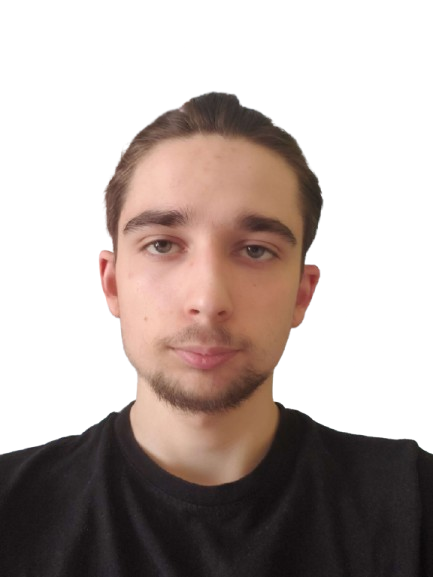
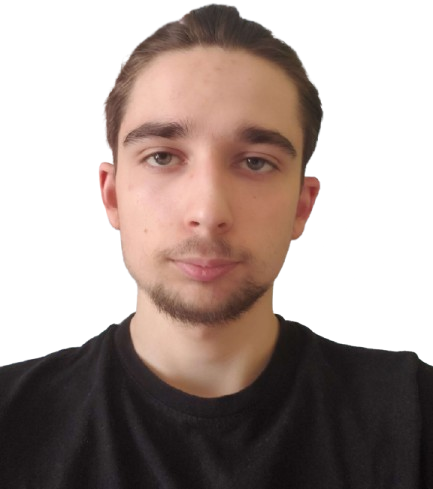
List & Stack filter + Classes

Changed region(s): [[0.0, 0.0, 1.0, 0.8589]]

diff --git a/components/Bio.vue b/components/Bio.vue
@@ -2,35 +2,44 @@
     <div>
     <div class="mx-auto px-4 sm:px-6 lg:px-8">
       <div class="bg-white shadow-xl rounded-lg overflow-hidden">
-        <div class="sm:flex sm:items-center sm:justify-between">
+        <div class="sm:flex">
           <div class="px-6 py-8 sm:p-10 z-0 w-2/3">
-            <h1 class="text-5xl font-bold text-gray-900">{{ name }}</h1>
-            <h2 class="text-3xl font-medium text-gray-700">{{ title }}</h2>
-            <div class="mt-4">
-                <h2 class="text-2xl font-medium text-gray-900">Bio</h2>
-                <p class="text-gray-700 text-lg">{{ bio }}</p>
+            <h1 class="title">{{ name }}</h1>
+            <h2 class="subtitle">{{ title }}</h2>
+            <div class="text-container mt-4 group">
+                <h2 class="text-title">Bio</h2>
+                <p class="text">{{ bio }}</p>
             </div>
             <div class="mt-6" v-if="skills">
-              <h3 class="text-2xl font-medium text-gray-900">Mes compétences</h3>
-              <div class="mt-3 flex flex-wrap gap-2">
-                <span v-for="skill in skills" :key="skill" class="bg-gray-800 text-white hover:bg-blue-600 duration-200 px-3 py-1 rounded-full text-md">{{ skill }}</span>
+              <h3 class="text-title">Mes compétences</h3>
+              <div class="skill-list">
+                <span v-for="skill in skills" :key="skill" 
+                class="main-skills">
+                  {{ skill }}
+                </span>
               </div>
             </div>
             <div class="mt-6" v-if="softSkills">
-              <h3 class="text-2xl font-medium text-gray-900">Mes Softs-Skills</h3>
-              <div class="mt-3 flex flex-wrap gap-2">
-                <span v-for="skill in softSkills" :key="skill" class="bg-gray-200 text-gray-700 hover:bg-gray-800 hover:text-white duration-200 px-3 py-1 rounded-full text-md">{{ skill }}</span>
+              <h3 class="text-title">Mes Softs-Skills</h3>
+              <div class="skill-list">
+                <span v-for="skill in softSkills" :key="skill" 
+                class="secondary-skills">
+                  {{ skill }}
+                </span>
               </div>
             </div>
             <div class="mt-6" v-if="interests">
-              <h3 class="text-2xl font-medium text-gray-900">Mes centres d'intérêts</h3>
-              <div class="mt-3 flex flex-wrap gap-2">
-                <span v-for="interest in interests" :key="interest" class="bg-gray-200 text-gray-700 hover:bg-gray-800 hover:text-white duration-200 px-3 py-1 rounded-full text-md">{{ interest }}</span>
+              <h3 class="text-title">Mes centres d'intérêts</h3>
+              <div class="skill-list">
+                <span v-for="interest in interests" :key="interest" 
+                class="secondary-skills">
+                {{ interest }}
+                </span>
               </div>
             </div>
           </div>
-          <div class="flex h-full w-1/3 justify-center bg-gray-800 rounded-lg bg-[url('/assets/images/la_vague.jpg')] bg-cover bg-center">
-                <img src="/assets/images/moi-no-bg.png" alt="avatar" class="w-full"/>
+          <div class="flex w-1/3 justify-end rounded-e-lg">
+                <img src="/assets/images/moi-no-bg.png" alt="avatar" class="h-full bg-[url('/assets/images/la_vague.jpg')] bg-cover bg-center "/>
           </div>
         </div>
       </div>

diff --git a/components/Skills.vue b/components/Skills.vue
@@ -1,8 +1,12 @@
 <template>
     <div ref="skillsIntro">
         <Head title="Mes projets & expériences"/>
-        <div class="w-full text-center">
-            <input type="text" v-model="search" placeholder="Rechercher un projet" class="w-1/2 p-2 mx-auto rounded-lg border-2 border-gray-300 focus:border-blue-500 focus:outline-none"/>
+        <div class="flex flex-row w-full justify-center gap-5">
+            <input type="text" v-model="search" placeholder="Rechercher un projet" class="w-1/3 p-2 rounded-lg border-2 border-gray-300 focus:border-blue-500 focus:outline-none"/>
+                <select name="stacks" id="stacks-select" v-model="stack" class="p-2 rounded-lg border-2 border-gray-300 focus:border-blue-500 focus:outline-none">
+                    <option value="" class="text-gray-400">Toute stack</option>
+                    <option v-for="stack in stacks" :value="stack">{{ stack }}</option>
+                </select>
         </div>
         <Project v-for="project in filteredProjects" @focus="focusedProject = project" :title="project.title" :bio="project.bio" :stacks="project.stacks" :link="project.link" :image="project.image"/>
         <div class="w-full justify-center text-center" v-if="filteredProjects.length == 0">
@@ -30,42 +34,29 @@ const search = ref('')
 const skillsIntro = ref(null)
 const focusedProject = ref(null)
 const filteredProjects = ref(projects)
-const hiddenProjects = ref([])
+const stacks = ref([...new Set(projects.map(project => project.stacks).flat())])
+const stack = ref('')
 
-const observer = new IntersectionObserver((entries) => {
-    entries.forEach(entry => {
-        if (entry.isIntersecting) {
-            entry.target.classList.add('animate-fade-in')
-        }
-        else {
-            entry.target.classList.remove('animate-fade-in')
-        }
-    })
-})
 
-watch(() => hiddenProjects.value, (newValue, oldValue) => {
-    if (newValue) {
-        observer.observe(newValue)
-    }
-})
+const filterProjects = (search, stack) => {
+    filteredProjects.value = projects.filter(project => {
+        const matchesSearch = search ? project.title.toLowerCase().includes(search.toLowerCase()) : true;
+        
+        const matchesStack = stack ? project.stacks.includes(stack) : true;
+        
+        return matchesSearch && matchesStack;
+    });
+}
 
 watch(() => search.value, (newValue, oldValue) => {
-    if (newValue !== '') {
-        filteredProjects.value = projects.filter(project => 
-            project.title.toLowerCase().includes(newValue.toLowerCase()) ||
-            project.bio.toLowerCase().includes(newValue.toLowerCase()) ||
-            project.stacks.some(stack => stack.toLowerCase().includes(newValue.toLowerCase()))
-        )
-    } else {
-        filteredProjects.value = projects
-    }
+    filterProjects(newValue, stack.value)
+})
+
+watch(() => stack.value, (newValue, oldValue) => {
+    filterProjects(search.value, newValue)
 })
 
 onMounted(() => {
     props.direction === 'right' ? skillsIntro.value.classList.add('animate-slide-right') : skillsIntro.value.classList.add('animate-slide-left')
-    hiddenProjects.value = document.querySelectorAll('.hiddenProject')
-    if (hiddenProjects.value && hiddenProjects.value.length > 0) {
-        hiddenProjects.value.forEach(project => observer.observe(project))
-    }
 })
 </script>

diff --git a/components/Project.vue b/components/Project.vue
@@ -1,25 +1,27 @@
 <template>
-  <div class="my-8 opacity-0 transition-all duration-100 hiddenProject">
+  <div class="my-8 transition-all duration-100 animate-fade-in">
     <div class="mx-auto px-4 sm:px-6 lg:px-8">
       <div class="bg-white shadow-xl rounded-lg overflow-hidden">
         <div class="sm:flex sm:items-center sm:justify-between h-fit">
-          <div class="flex flex-col px-6 py-8 sm:p-10 h-full">
+          <div class="flex flex-col px-6 py-8 sm:p-10 h-full group">
             <div class="flex w-fit">
               <a :href="link ? link : '#'" target="_blank" class="underscore">
-                <h1 class="text-4xl font-bold text-gray-900 cursor-pointer">{{ title }}</h1>
+                <h1 class="title cursor-pointer">{{ title }}</h1>
               </a>
             </div>
             <div class="mt-6" v-if="stacks">
-              <h3 class="text-xl font-medium text-gray-900">Stacks</h3>
-              <div class="mt-3 flex flex-wrap gap-2">
-                <span v-for="stack in stacks" :key="stack" class="bg-gray-800 text-white px-3 py-1 rounded-full text-sm hover:bg-blue-600 duration-200">{{ stack }}</span>
+              <h3 class="text-title">Stacks</h3>
+              <div class="skill-list">
+                <span v-for="stack in stacks" :key="stack" class="main-skills">{{ stack }}</span>
               </div>
             </div>
             <div class="mt-4 group">
-              <h2 class="text-xl font-medium text-gray-900">Résumé</h2>
-              <p class="text-gray-600 group-hover:text-lg group-hover:text-gray-900 duration-300">{{ bio }}</p>
+              <h2 class="text-title">Résumé</h2>
+              <p class="text">{{ bio }}</p>
             </div>
-            <a class="mt-6 text-xl font-medium text-gray-900 cursor-pointer duration-200 hover:rounded-full hover:p-3 hover:bg-gray-200 w-fit" @click="emitFocus()">En savoir plus</a>
+            <a class="mt-6 text-xl font-medium text-gray-900 cursor-pointer duration-200 rounded-full p-3 bg-gray-200 group-hover:bg-gray-800 group-hover:text-white w-fit" @click="emitFocus()">
+            En savoir plus
+            </a>
           </div>
           <div class="flex h-full justify-center bg-gray-800 rounded-lg duration-150 image-div relative group" v-if="image">
             <a :href="link ? link : '#'" target="_blank" class="image-link duration-150">

diff --git a/components/projectFocus.vue b/components/projectFocus.vue
@@ -2,7 +2,7 @@
   <div class="fixed inset-0 z-50 flex items-center justify-center">
     <div class="absolute inset-0 bg-black bg-opacity-40 backdrop-blur-md" @click="$emit('close')"></div>
 
-    <div class="relative bg-white shadow-xl rounded-lg overflow-hidden w-11/12 sm:w-3/4 lg:w-1/2 p-8 flex flex-col items-center space-y-6 z-50">
+    <div class="relative bg-white shadow-xl rounded-lg overflow-hidden w-11/12 sm:w-3/4 lg:w-1/2 p-8 flex flex-col items-center space-y-6 z-50 max-h-[90vh] overflow-y-auto"> 
 
       <button @click="$emit('close')" class="absolute top-4 right-4 text-gray-800 hover:text-gray-900 text-lg hover:text-2xl duration-300">
         ✕
@@ -12,8 +12,9 @@
         {{ title }}
       </a>
 
-      <a :href="link ? link : '#'" target="_blank" class="relative group w-full">
-        <img :src="`/_nuxt/assets/images/` + image" alt="avatar" class="rounded-lg w-full h-auto cursor-pointer group-hover:opacity-75 transition-opacity duration-150" />
+      <a :href="link ? link : '#'" target="_blank" class="flex flex-col group image-link duration-150">
+        <Icon size="32" name="quill:link-out" class="absolute invisible right-1/2 top-[40%] translate-x-1/2 text-white group-hover:visible z-10 duration-100"/>
+        <img :src="`/_nuxt/assets/images/` + image" alt="avatar" class="cursor-pointer group-hover:blur-sm duration-200"/>
       </a>
 
       <div v-if="stacks" class="w-full text-center">
@@ -28,7 +29,11 @@
         <p class="text-gray-600">{{ more ? more : bio }}</p>
       </div>
 
-      <a :href="'/assets/other/'+doc+'.pdf'" download="CV Lajoinie Elie.pdf" class="self-center text-center w-1/2 py-3 bg-gray-200 text-gray-700 rounded-full text-sm">Télécharger {{ docTitle }}</a>
+      <a :href="'/assets/other/'+doc+'.pdf'" download="CV Lajoinie Elie.pdf" 
+      class="self-center text-center w-1/2 py-3 bg-gray-200 text-gray-700 rounded-full text-sm"
+      v-if="doc">
+      Télécharger {{ docTitle }}
+      </a>
 
     </div>
   </div>

diff --git a/components/Head.vue b/components/Head.vue
@@ -1,19 +1,44 @@
 <template>
-  <div class="pt-8 pb-16 text-center">
+  <div class="py-12 text-center">
     <div class="w-full justify-center">
-      <h1 class="text-6xl font-bold text-gray-800 drop-shadow-[0_4px_5px_rgba(0,0,0,0.4)]">
+      <h1
+        ref="titleRef"
+        @mousemove="handleMouseMove"
+        @mouseleave="resetShadow"
+        class="text-6xl font-bold text-gray-800 drop-shadow-[0_4px_5px_rgba(0,0,0,0.4)] transition-shadow duration-200"
+        :style="{ textShadow }"
+      >
         {{ title }}
       </h1>
     </div>
   </div>
 </template>
 
-
 <script setup>
+import { ref } from 'vue';
+
 const props = defineProps({
   title: {
     type: String,
     required: true
   }
-})
+});
+
+const titleRef = ref(null);
+const textShadow = ref('');
+
+const handleMouseMove = (event) => {
+  const { offsetX, offsetY, target } = event;
+  const width = target.offsetWidth;
+  const height = target.offsetHeight;
+
+  const xShadow = (offsetX - width / 2) / 10;
+  const yShadow = (offsetY - height / 2) / 10;
+
+  textShadow.value = `${xShadow}px ${yShadow}px 10px rgba(0, 0, 0, 0.4)`;
+};
+
+const resetShadow = () => {
+  textShadow.value = '';
+};
 </script>

diff --git a/components/Header.vue b/components/Header.vue
@@ -5,13 +5,15 @@
         <a 
           href="#"
           @click.prevent="scrollToSection(1)"
-          :class="{ 'text-gray-400': activeTab !== 1, 'text-white textShadow duration-200': activeTab === 1 }"
+          class="title-nav"
+          :class="{ 'text-gray-400': activeTab !== 1, 'text-white textShadow': activeTab === 1 }"
         >
         Qui suis-je ?
         </a>
         <a
           href="#"
           @click.prevent="scrollToSection(2)"
+          class="title-nav"
           :class="{ 'text-gray-400': activeTab !== 2, 'text-white textShadow': activeTab === 2 }"
         >
         Mes projets & expériences
@@ -19,6 +21,7 @@
         <a
           href="#"
           @click.prevent="scrollToSection(3)"
+          class="title-nav"
           :class="{ 'text-gray-400': activeTab !== 3, 'text-white textShadow': activeTab === 3 }"
         >
         Me contacter
@@ -55,5 +58,16 @@ nav {
         0 0 7px #fff,
         0 0 8px #fff,
         0 0 17px #fff,
+}
+
+.title-nav {
+  @apply duration-200;
+}
+
+.title-nav:hover {
+    text-shadow:
+        0 0 12px #fff,
+        0 0 13px #fff,
+        0 0 20px #fff,
 }
 </style>

diff --git a/assets/scss/main.scss b/assets/scss/main.scss
@@ -2,10 +2,35 @@
 @tailwind components;
 @tailwind utilities;
 
-.background {
-  @apply bg-gray-100 fixed w-full h-full top-0 blur;
-  z-index: -1;
+/* Texts */
+.title{
+  @apply  text-5xl font-bold text-gray-900;
 }
+.subtitle{
+  @apply text-3xl font-medium text-gray-700;
+}
+
+.text-title{
+  @apply text-2xl font-medium text-gray-900;
+}
+
+.text{
+  @apply text-gray-700 text-lg group-hover:text-xl group-hover:text-gray-900 duration-300;
+}
+
+/* lists */
+
+.skill-list{
+  @apply mt-3 flex flex-wrap gap-2;
+  .main-skills{
+    @apply bg-gray-800 text-white hover:bg-blue-600 duration-200 px-3 py-1 rounded-full;
+  }
+  .secondary-skills{
+    @apply bg-gray-200 text-gray-700 hover:bg-gray-800 hover:text-white duration-200 px-3 py-1 rounded-full;
+  }
+}
+
+/* Animations */
 
 .animate-slide-right {
   animation: slide-right 0.7s ease-out;
@@ -50,9 +75,9 @@
 
 .animate-fade-in {
   opacity: 1;
-  animation: fade-in 0.7s ease-out;
+  animation: fade-in 1s ease-out;
   animation-timeline: view();
-  animation-range: entry 0% cover 20%
+  animation-range: entry 0% cover 10%
 }
 
 

diff --git a/components/Aspiration.vue b/components/Aspiration.vue
@@ -2,7 +2,7 @@
     <div class="mx-auto px-4 sm:px-6 lg:px-8 my-5">
       <div class="bg-white shadow-xl rounded-lg overflow-hidden">
         <div class="sm:flex sm:items-center sm:justify-between">
-          <div class="flex flex-col gap-4 h-full w-1/3 justify-center rounded-lg">
+          <div class="flex flex-col gap-4 h-full w-1/3 justify-center rounded-lg shadow">
                 <img src="/assets/images/CV Informatique Elie Lajoinie.png" alt="avatar"/>
           </div>
           <div class="flex flex-col px-6 py-8 sm:p-10 z-0 w-2/3 gap-4">

diff --git a/pages/index.vue b/pages/index.vue
@@ -7,7 +7,7 @@
         <button @click="activeTab--" v-if="activeTab > 1" class="arrowButton"><Icon size="32" name="uil:arrow-circle-left" style="color: white" /></button>
         <button @click="activeTab++" v-if="activeTab < 3" class="arrowButton"><Icon size="32" name="uil:arrow-circle-right" style="color: white" /></button>
     </div>
-  <div class="background">
+  <div class="bg-gray-100 fixed w-full h-full top-0 blur bg-[url('/assets/images/la_vague.jpg')] bg-cover -z-10">
   </div>
 
 </template>
